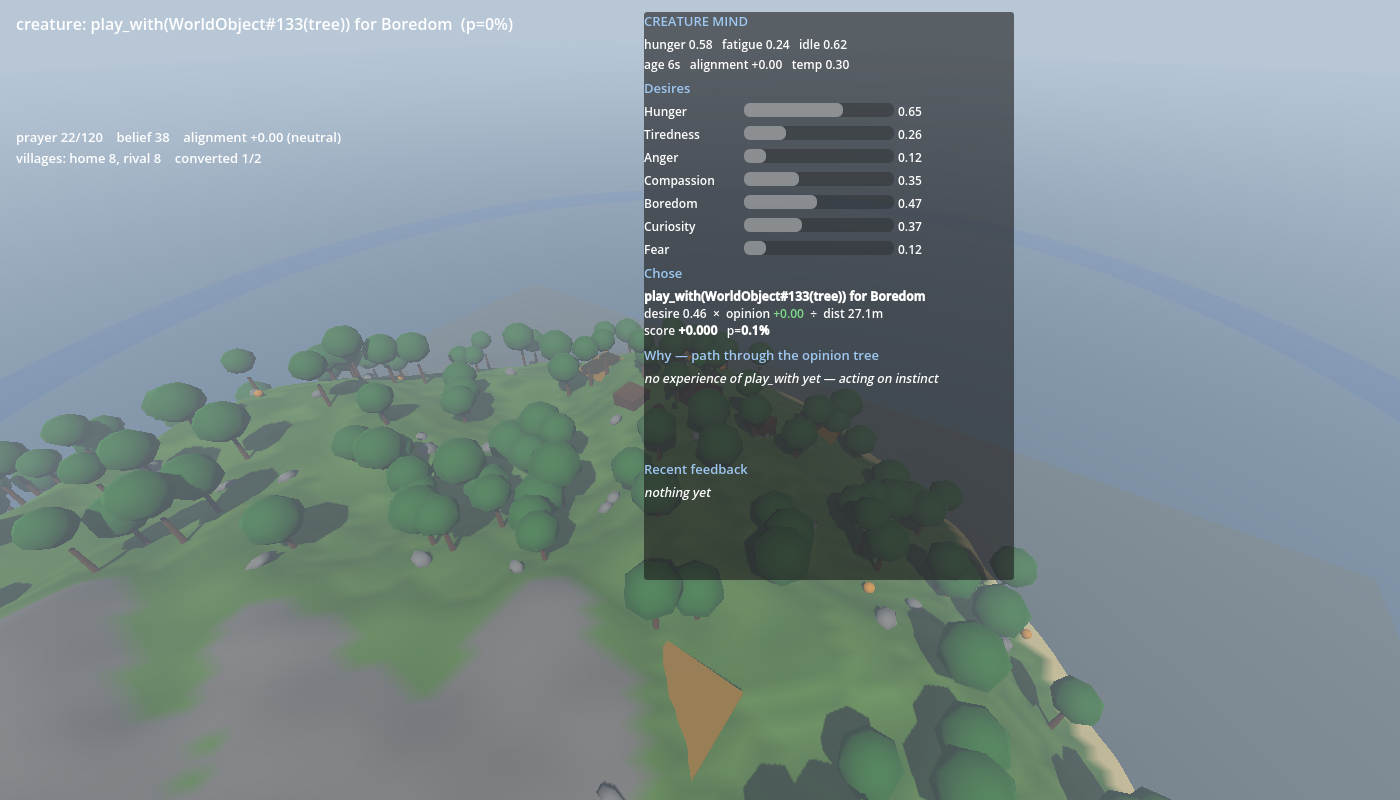
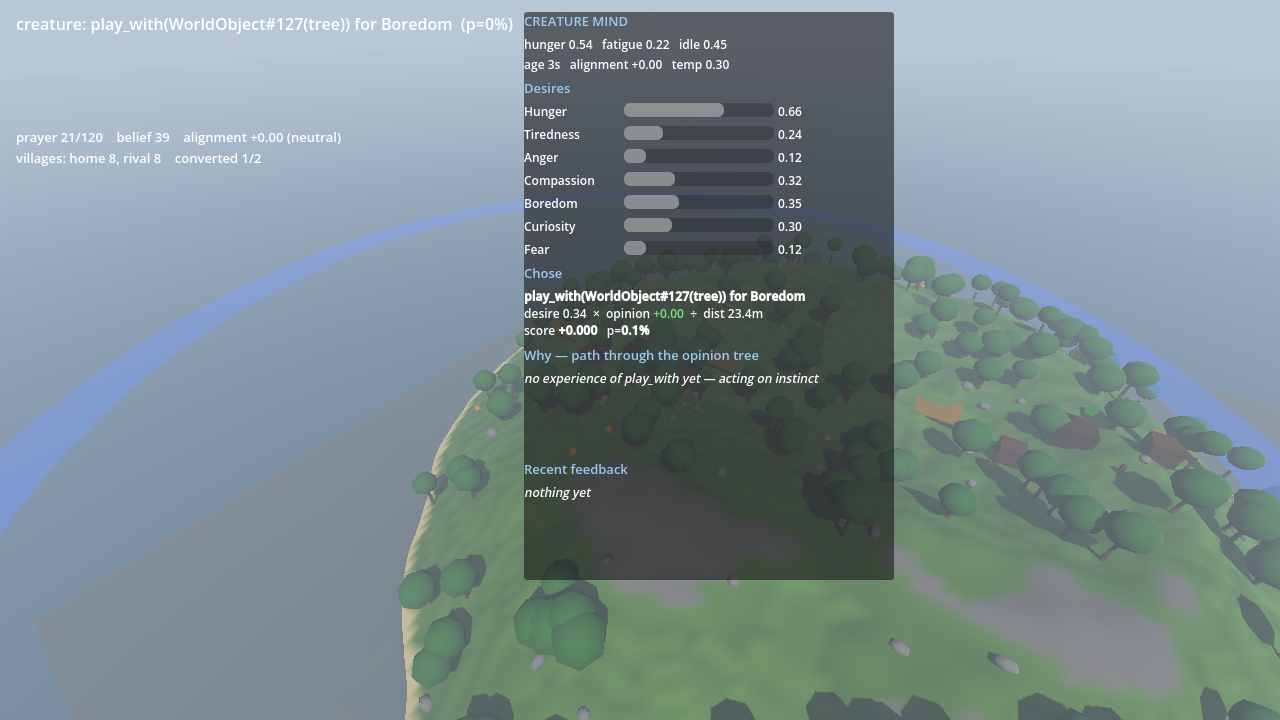
fix(camera): pan relative to the camera, and add WASD
Panning was inverted, not merely world-relative. forward was rebuilt from _yaw
as Vector3(sin, 0, cos), which points from the focus back TOWARD the camera, and
was then negated again -- so pressing up dragged the view backwards. right was
only correct because a second sign error cancelled the first.

Fixed by taking both directions from the camera's own basis instead of
re-deriving them with trig, which is correct by construction and stays correct
if the rig's maths changes. Degenerate case guarded: flattening -Z collapses to
zero when looking straight down, and a naive normalise would return NaN and
poison the focus permanently.

Pan is now also on WASD as well as the arrows, using physical keycodes so the
cluster keeps its shape on AZERTY and Dvorak.

Ten tests, including the regression that would have caught this: up must pan
away from the camera at seven different orbit angles. Measured proof that it is
camera-relative rather than world-aligned -- up at yaw 0 moves (0, 0, -28), at
yaw 90 it moves (-28, 0, 0).

diff --git a/README.md b/README.md
@@ -25,7 +25,8 @@ WASM, so it looks a little plainer and runs slower than the desktop build — se
 | --- | --- |
 | Left mouse | Grab and throw — trees, rocks, food, villagers |
 | Right mouse drag | Orbit the camera |
-| Wheel / Arrow keys | Zoom / pan |
+| Wheel | Zoom |
+| **WASD** or arrow keys | Pan — relative to the camera, so "forward" is always into the screen however you have orbited |
 | **Middle mouse drag** | Draw a miracle gesture — spiral food, chevron wood, wave water, circle heal, bolt lightning |
 | **P** / **L** | Pet (reward) / slap (punish) the creature |
 | **1–4** | Leash: none / learning / compassion / aggression |
